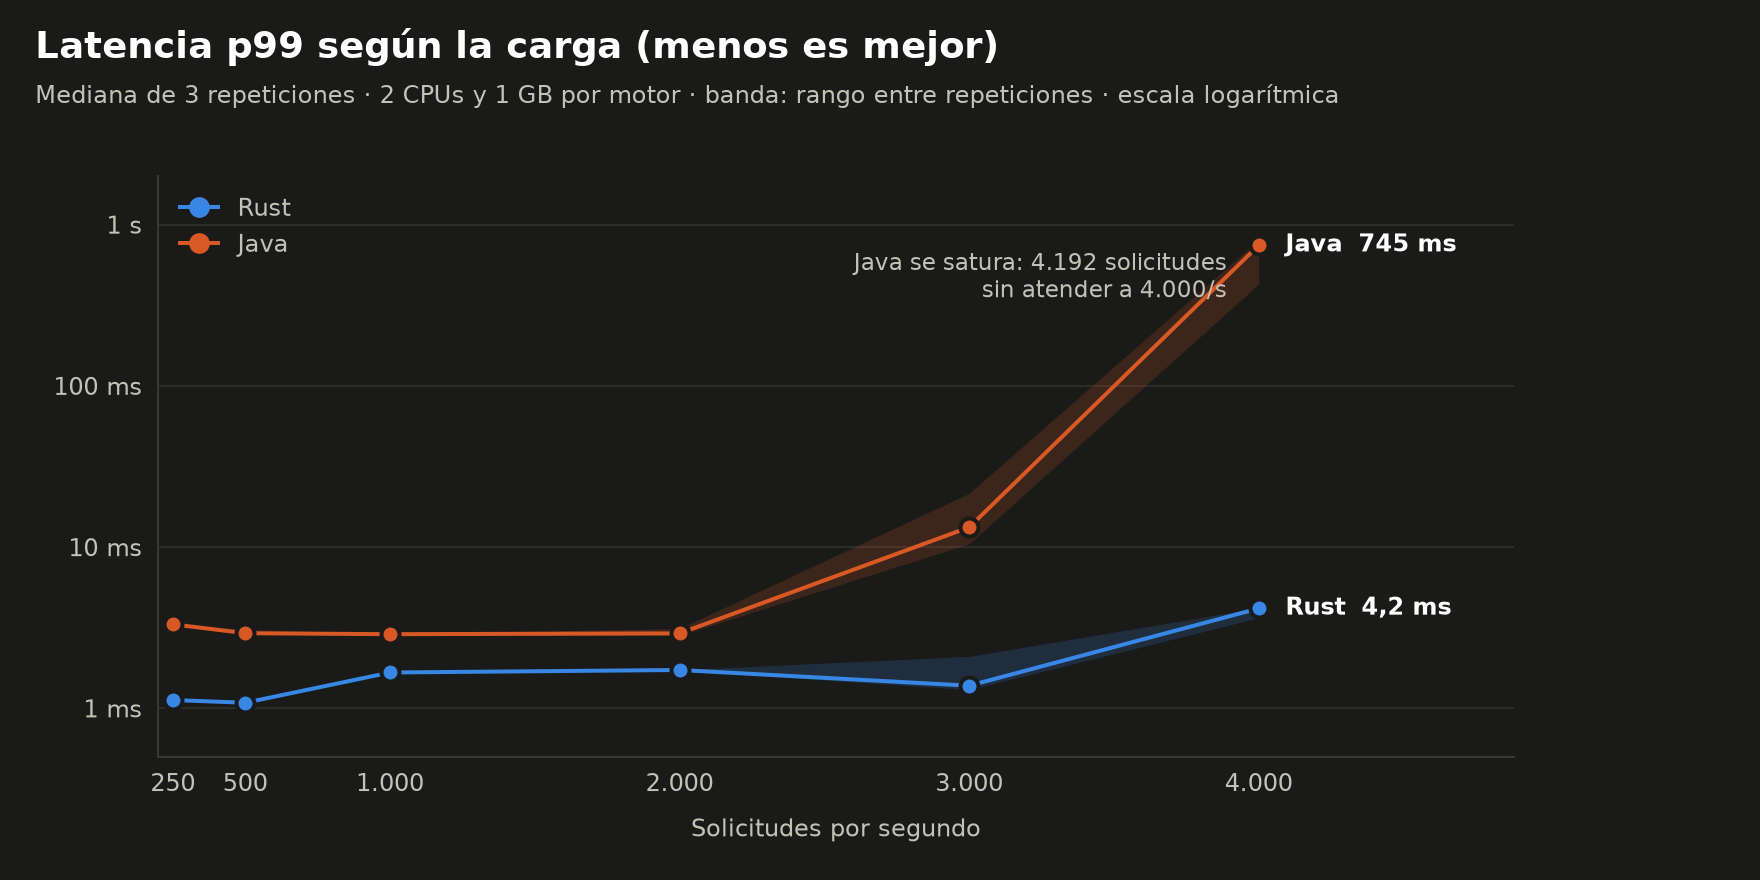
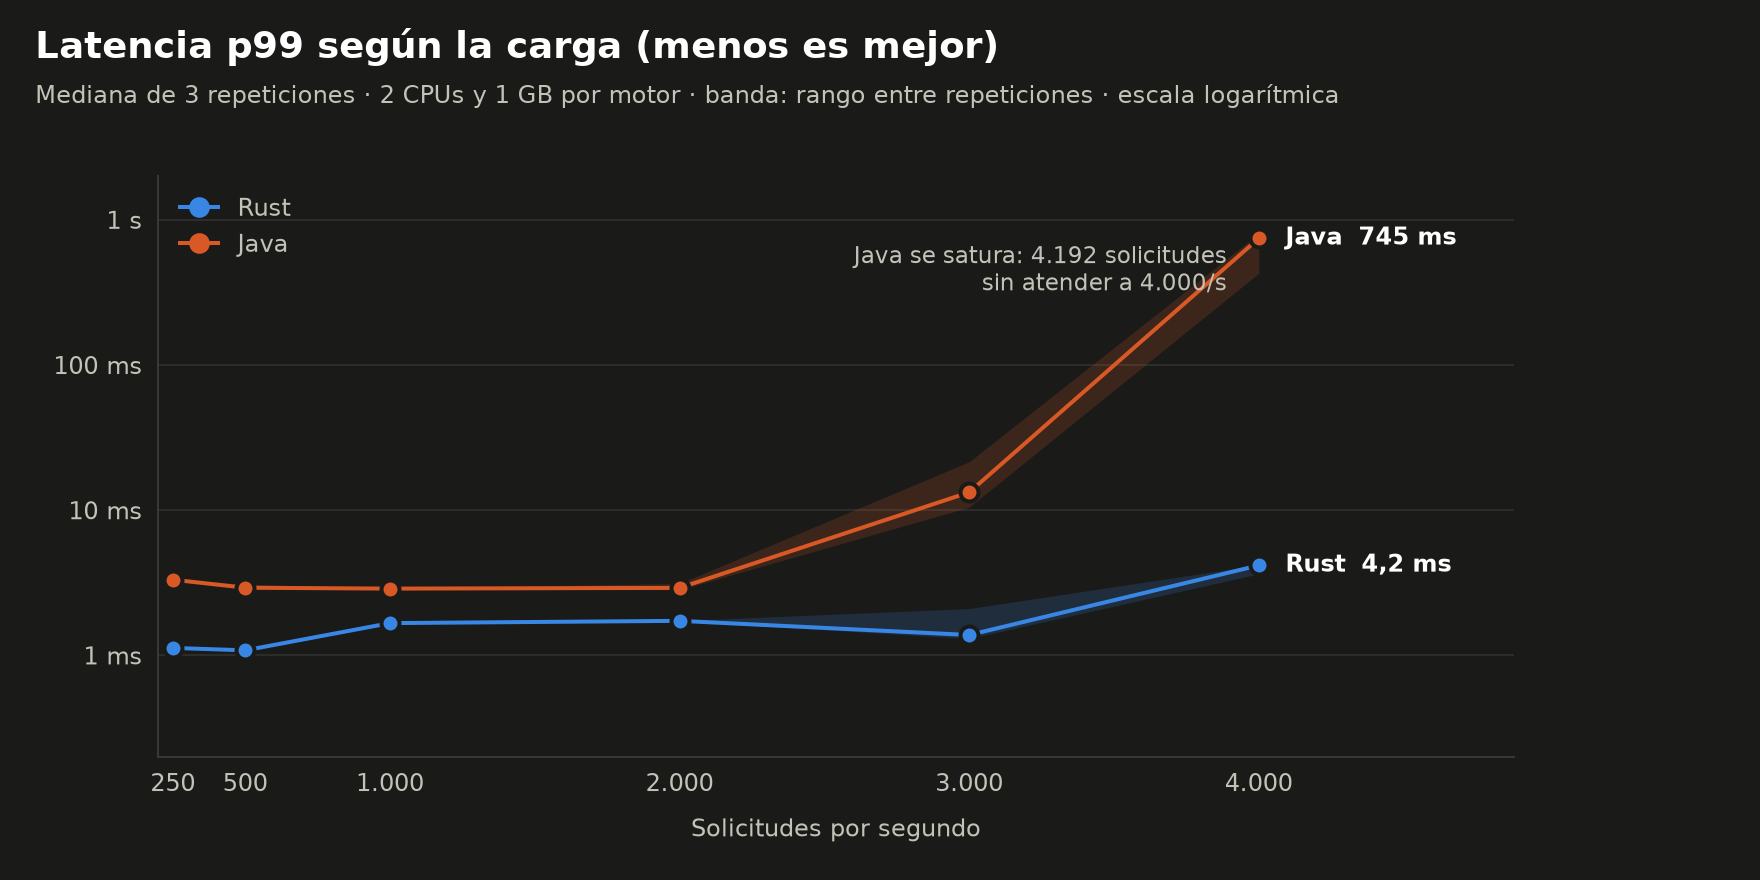
fix(bench): fit the latency chart axis to the data

diff --git a/bench/plot.py b/bench/plot.py
@@ -120,8 +120,11 @@ def latency_chart(results, rates, out, mode):
         end_label(ax, rates[-1], value, text, t)
 
     ax.set_yscale("log")
-    ax.set_ylim(0.5, 2000)
-    ax.yaxis.set_major_locator(FixedLocator([1, 10, 100, 1000]))
+    # El eje llega a la siguiente potencia de 10 por encima del valor más alto.
+    top = max(max(p["p99_max"] for e in ENGINES for p in (results.phase(e, f"r{r}") for r in rates)), 5)
+    decades = [d for d in (1, 10, 100, 1000) if d <= top * 10]
+    ax.set_ylim(min(0.2, top), 10 ** (len(str(int(top)))) * 2)
+    ax.yaxis.set_major_locator(FixedLocator(decades))
     ax.yaxis.set_minor_locator(NullLocator())
     ax.yaxis.set_major_formatter(FuncFormatter(lambda v, _: "1 s" if v >= 1000 else f"{v:g} ms"))
     rate_axis(ax, rates, t)
